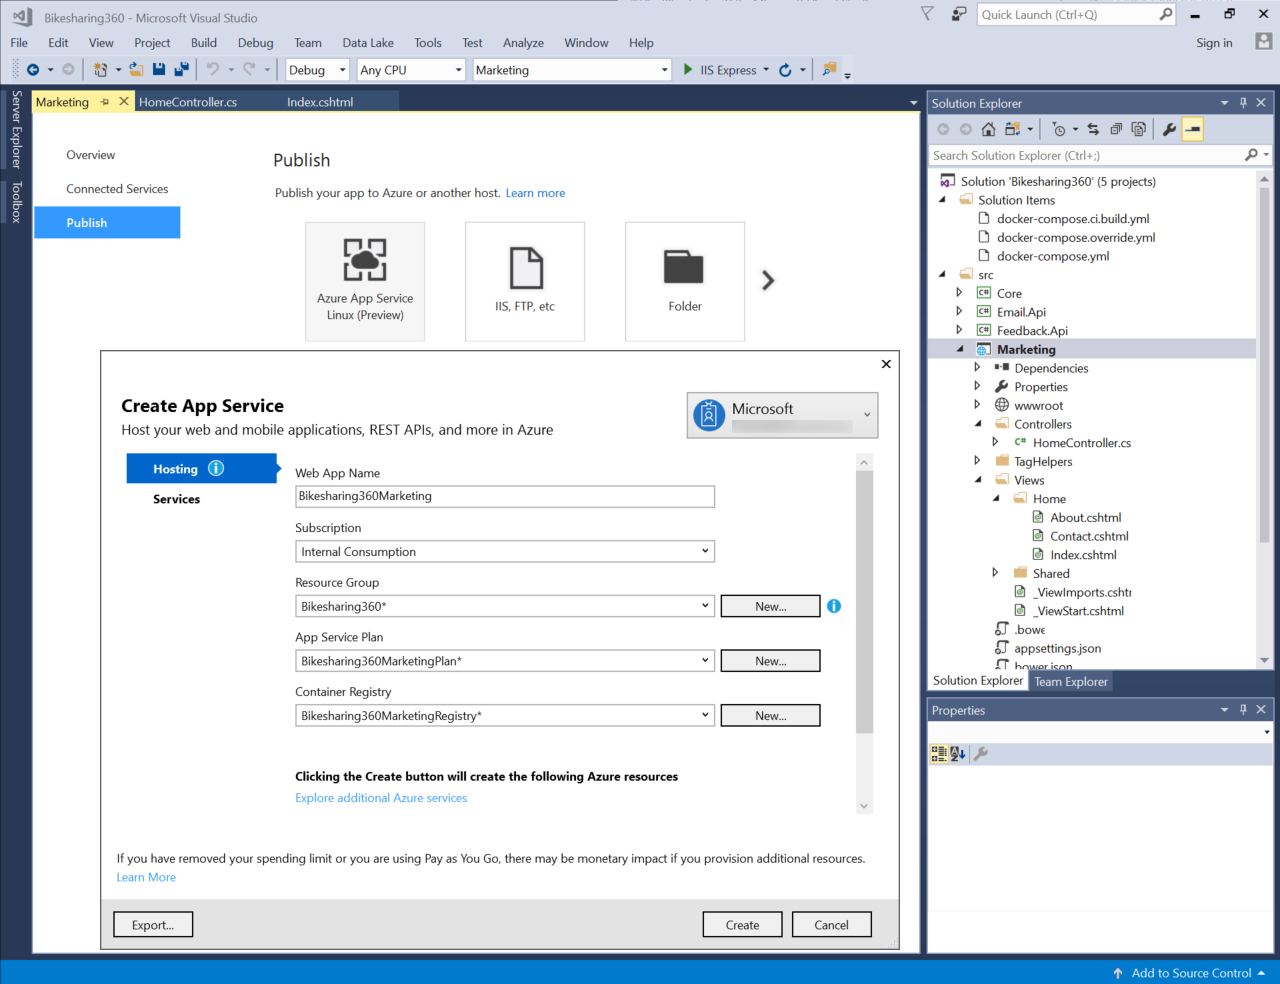
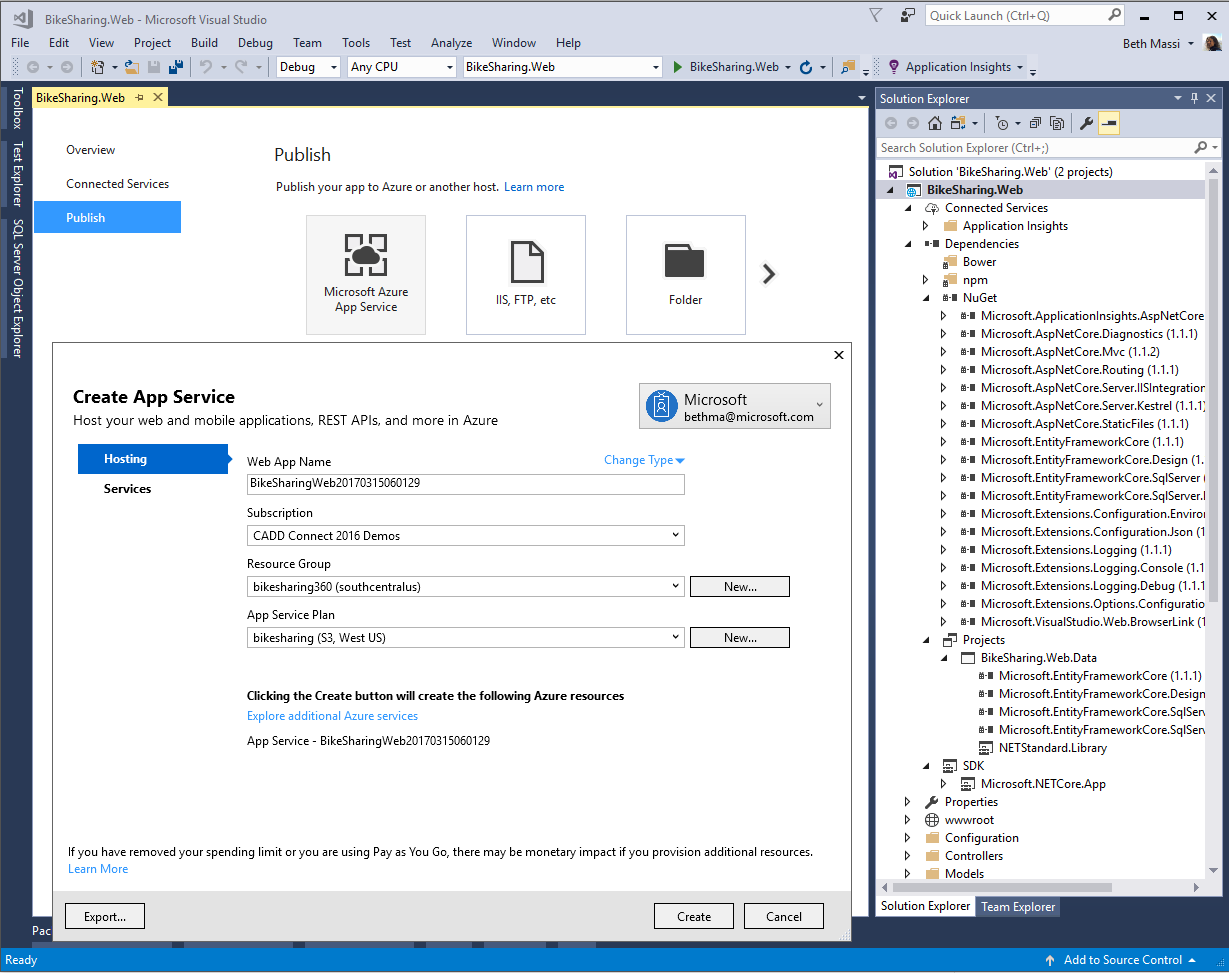
.NET Core tools demo updates
Updated intro image to correct demo. Removed reference to repo coming
soon

Changed region(s): [[0.0, 0.0, 1.0, 1.0], [0.2164, 0.1542, 0.6184, 0.37], [0.7111, 0.0, 0.8657, 0.0308]]

diff --git a/.NET Core tools in Visual Studio 2017/readme.md b/.NET Core tools in Visual Studio 2017/readme.md
@@ -7,14 +7,12 @@
 
 **Setup:**
 
-Visual Studio 2017 (RC4 or later)
+- Visual Studio 2017 
 
-Clone repo: code coming soon. You can start with any project.json-based
-ASP.NET Core web application. If you don’t have one, just mention the
-migration and create a new ASP.NET Core App Project by clicking New
-option in the File Menu.*
+- Make sure the error list is unpinned / hidden.
 
-Make sure the error list is unpinned / hidden.
+- You can start with any project.json-based ASP.NET Core web application. If you don’t have one, just mention the migration and create a new ASP.NET Core App Project by clicking New
+option in the File Menu.
 
 **Demo steps**
 
